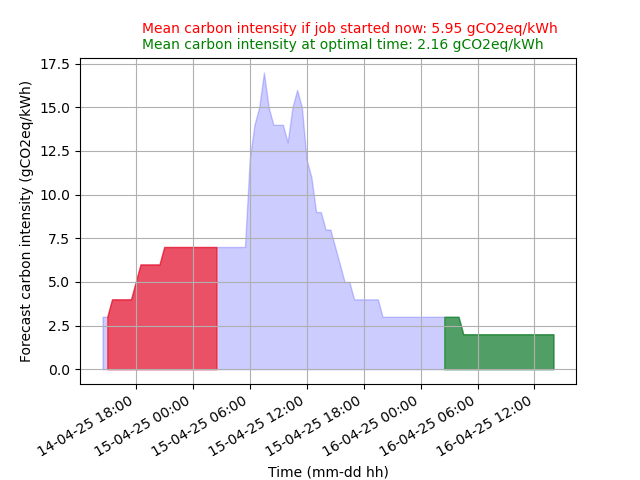
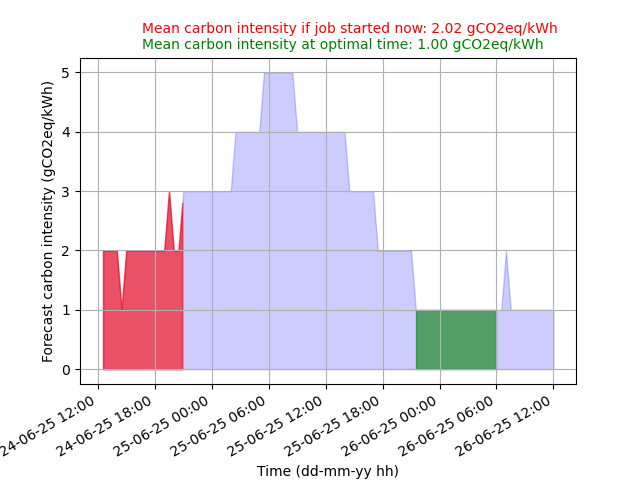
Update plot to use current implementation
Minor change in x axis label and fix the time
and place in the caption

diff --git a/docs/paper/paper.md b/docs/paper/paper.md
@@ -81,7 +81,7 @@ At its core CATS is an open-source (MIT licence) Python package (tested with Pyt
 
 The user provides CATS with the duration of the proposed computation on the command line. They may also provide the location, the command to run and information about the scheduler. CATS then accesses a prediction of the carbon intensity of the relevant power distribution network and computes the start time that minimises the carbon intensity over the duration of the computation. An illustration of this calculation is provided in Figure 1. Once the carbon intensity minimisation has been completed, CATS can optionally submit the computation to a queueing system or make a more detailed report on the climate impact of the proposed computation.
 
-![illustration of the carbon intensity time series for (blue) with the predicted energy use for running a twelve hour calculation now (red) or at a time that minimises the integrated carbon intensity (green).\label{fig:schedule}](fig1.png)
+![illustration of the carbon intensity time series for (blue) with the predicted energy use for running a 8.3 hour calculation in Glasgow now (red) or at a time that minimises the integrated carbon intensity (green).\label{fig:schedule}](fig1.png)
 
 Providing further information about the carbon cost of the proposed computation improves the educational impact of CATS. This can be optionally enabled if information about the compute hardware is available. This calculation follows that used by the Green Algorithms project [@Lannelongue21], which also provides some easy to understand “equivalent” statements to put these numbers in context. 
 
